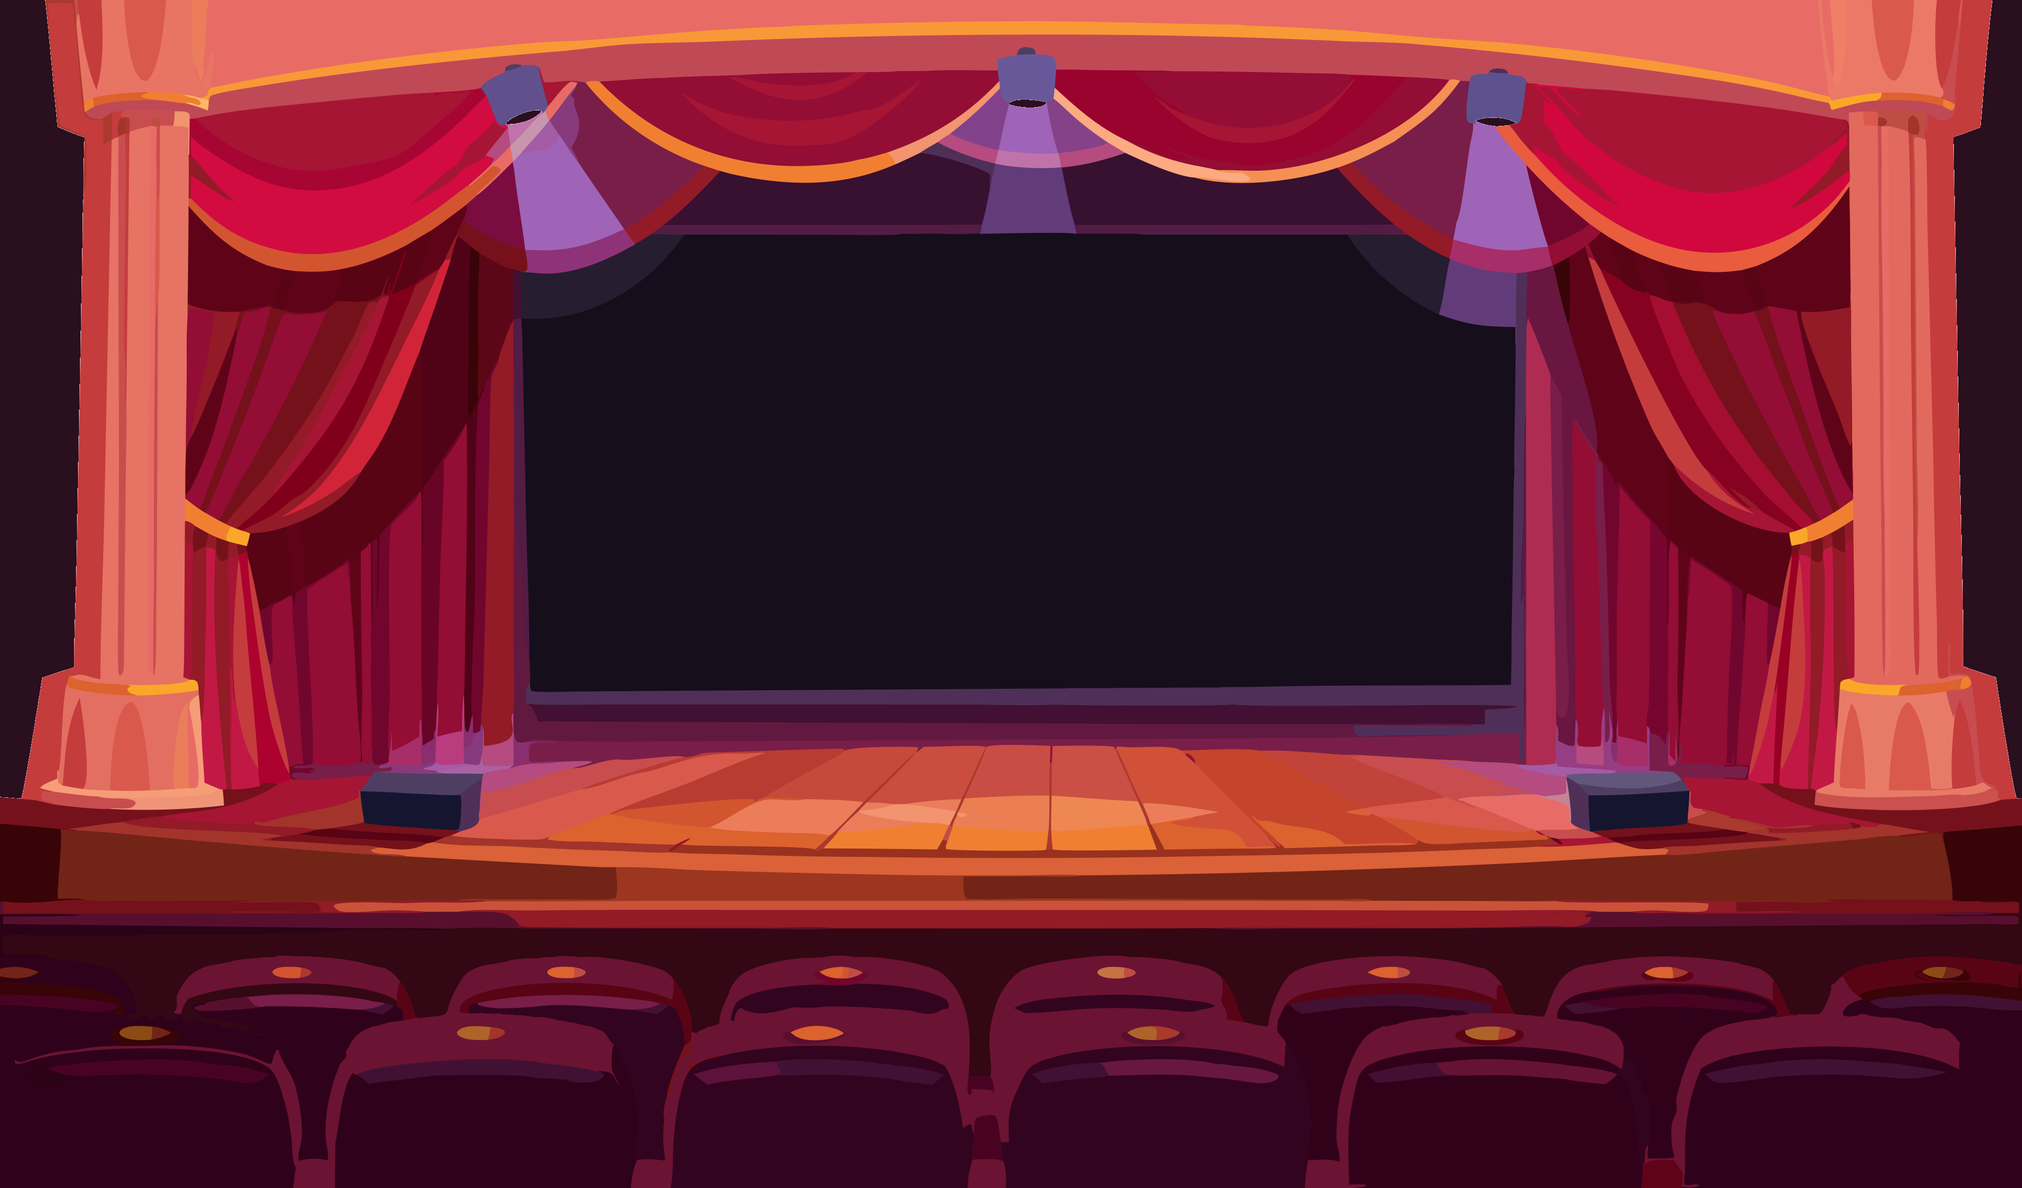
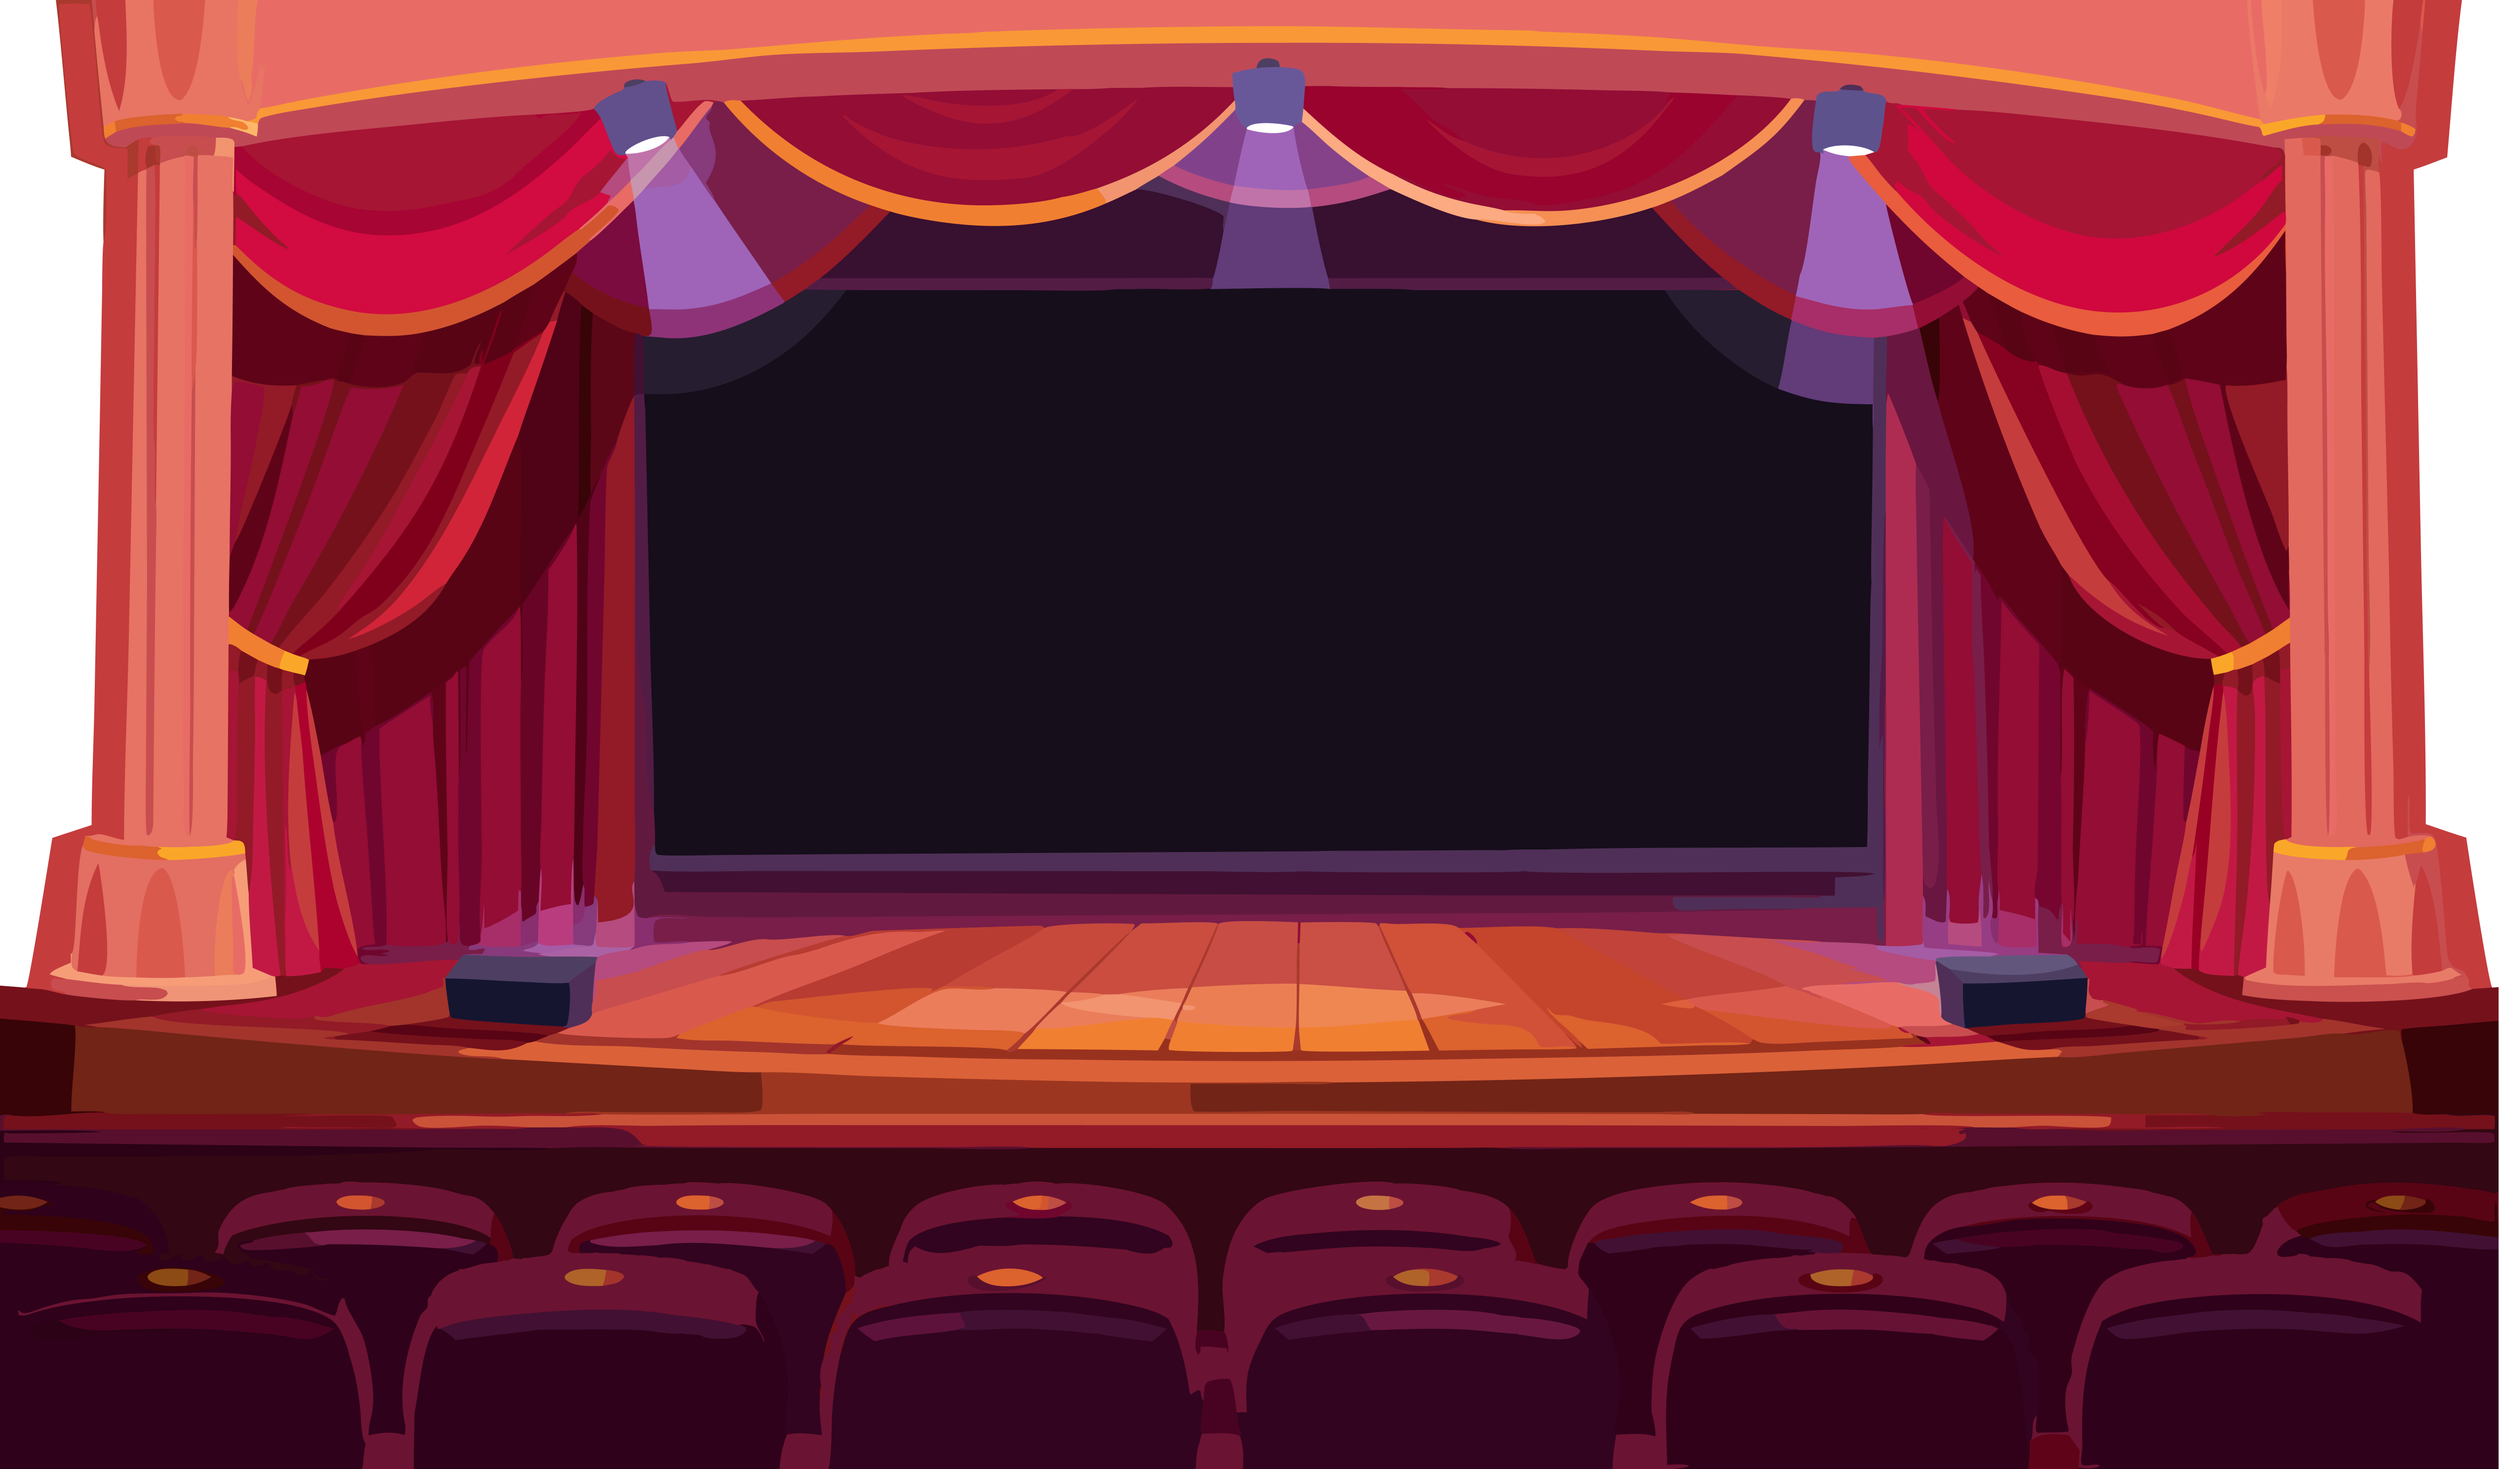
feat(art): new level backgrounds, new home and sign-in backdrop
Four new level backgrounds, plus realhome.png on the home and sign-in
screens (finalbg.png removed, nothing referenced it).

The Cave's art cannot be dropped in as-is: it scrolls with repeat-x, and
the supplied Tunnel Game.png has a 207/255 mismatch between its left and
right edges, so it would show a hard seam every cycle. It is rebuilt the
way the previous tile was, as a mirrored pair at 5600x1400 — edge
mismatch now 0.

That art's ground line also sits higher than the old tile's, so the
background scale moved 120% -> 121% to keep the horizon on 26%, where
the obstacle band starts. Those two numbers are one measurement; the
comment now records that the 121% was derived from a real render rather
than from the tile, because measuring the tile directly was misled by
dark foliage above the horizon.

The Garden's new art landed as scene-garden-play.png rather than over
scene-garden.png, because that file is also the pond's card art on the
choose-a-place grid — overwriting it changed a screen that was not
supposed to change. The card keeps the old picture.

The other three level backgrounds keep their existing filenames so no
URL has to deal with spaces.

diff --git a/Chamki Firefly Forest.dc.html b/Chamki Firefly Forest.dc.html
@@ -363,7 +363,7 @@ a { color: #F6C96B; } a:hover { color: #ffe1a6; }
     <!-- A mirrored pair, so repeat-x has no seam to show. The plain art was
          11k wide and its two edges were nothing like each other, which is the
          join that kept sliding past. -->
-    <div ref="{{ caveBgRef }}" style="position:absolute;inset:0;background-image:url(assets/scene-tunnel-tile.png);background-size:auto 120%;background-repeat:repeat-x;background-position:0 bottom"></div>
+    <div ref="{{ caveBgRef }}" style="position:absolute;inset:0;background-image:url(assets/scene-tunnel-tile.png);background-size:auto 121%;background-repeat:repeat-x;background-position:0 bottom"></div>
 
         <button onClick="{{ leaveGame }}" style="position:absolute;left:2.6vh;top:2.6vh;z-index:9;display:flex;align-items:center;gap:.9vh;height:5.4vh;padding:0 2vh 0 1.4vh;border-radius:1.4vh;border:.4vh solid #fff;background:linear-gradient(180deg,#B9C7D8 0%,#6E8299 100%);box-shadow:inset 0 -.5vh 0 rgba(0,0,0,.16),0 .3vh .6vh rgba(0,0,0,.24);color:#fff;font-family:'Baloo 2',Nunito,sans-serif;font-weight:800;font-size:1.6vh;letter-spacing:.1em;cursor:pointer;transition:transform .16s cubic-bezier(.22,.7,.3,1),box-shadow .16s ease,filter .16s ease" style-hover="filter:brightness(1.05)" style-active="transform:translateY(2px)"><svg width="2.4vh" height="2.4vh" viewBox="0 0 24 24"><path fill="currentColor" d="M11.3 5.3L4.6 12l6.7 6.7 2-2L9.4 13H20v-2H9.4l3.9-3.7z"></path></svg>{{ t.back }}</button>
 
@@ -507,7 +507,7 @@ a { color: #F6C96B; } a:hover { color: #ffe1a6; }
   </sc-if>
 
   <sc-if value="{{ isPond }}" hint-placeholder-val="{{ false }}">
-    <div style="position:absolute;inset:0;background-size:cover;background-position:center;background-image:url(assets/scene-garden.png)"></div>
+    <div style="position:absolute;inset:0;background-size:cover;background-position:center;background-image:url(assets/scene-garden-play.png)"></div>
     <div style="position:absolute;inset:0;background:linear-gradient(180deg,rgba(14,9,22,.34) 0%,rgba(14,9,22,.04) 28%,rgba(14,9,22,0) 62%,rgba(14,9,22,.3) 100%)"></div>
 
     <button onClick="{{ leaveGame }}" style="position:absolute;left:2.6vh;top:2.6vh;z-index:11;display:flex;align-items:center;gap:.9vh;height:5.4vh;padding:0 2vh 0 1.4vh;border-radius:1.4vh;border:.4vh solid #fff;background:linear-gradient(180deg,#B9C7D8 0%,#6E8299 100%);box-shadow:inset 0 -.5vh 0 rgba(0,0,0,.16),0 .3vh .6vh rgba(0,0,0,.24);color:#fff;font-family:'Baloo 2',Nunito,sans-serif;font-weight:800;font-size:1.6vh;letter-spacing:.1em;cursor:pointer;transition:transform .16s cubic-bezier(.22,.7,.3,1),box-shadow .16s ease,filter .16s ease" style-hover="filter:brightness(1.05)" style-active="transform:translateY(2px)"><svg width="2.4vh" height="2.4vh" viewBox="0 0 24 24"><path fill="currentColor" d="M11.3 5.3L4.6 12l6.7 6.7 2-2L9.4 13H20v-2H9.4l3.9-3.7z"></path></svg>{{ t.back }}</button>
@@ -1611,8 +1611,12 @@ class Component extends DCLogic {
   caveBand() {
     const e = this.props.breathEffort;
     const half = 9 * (e === 'Gentle' ? 1.35 : e === 'Strong' ? 0.8 : 1);
-    /* The background is scaled to 120% and pinned to the bottom, which
-       crops most of the sky and drops the ground line to about 25%. The
+    /* The background is scaled to 121% and pinned to the bottom, which
+       drops the ground line to about 26%, where the obstacle band starts.
+       The scale is derived from where the tile's own ground line falls
+       (~39% of its height), measured off a real render rather than
+       guessed. Re-measure it if the tunnel art is ever replaced.
+       The
        flight band has to follow it exactly — these numbers and that
        background-size are one measurement, not two. */
     const bandTop = 26, bandH = 74, pad = 3;

diff --git a/Breezy Login.dc.html b/Breezy Login.dc.html
@@ -31,7 +31,7 @@ button, a { transition: transform .16s cubic-bezier(.22,.7,.3,1), box-shadow .16
 </helmet>
 
 <div style="position:relative;width:100%;height:100vh;overflow:hidden;font-family:Nunito,system-ui,sans-serif;color:#2F3B52;background:#7FD2F5">
-  <div style="position:absolute;inset:0;background-size:cover;background-position:center;background-image:url(assets/finalbg.png)"></div>
+  <div style="position:absolute;inset:0;background-size:cover;background-position:center;background-image:url(assets/realhome.png)"></div>
   <!-- Just enough to lift the card off the art. The first pass was heavy
        enough to make a bright, cheerful picture look overcast. -->
   <div style="position:absolute;inset:0;background:radial-gradient(64% 52% at 50% 46%,rgba(12,40,64,.02) 0%,rgba(12,40,64,.16) 100%)"></div>

diff --git a/Breezy Home.dc.html b/Breezy Home.dc.html
@@ -27,7 +27,7 @@ button, a { transition: transform .16s cubic-bezier(.22,.7,.3,1), box-shadow .16
 </helmet>
 
 <div data-screen-label="Home" style="position:relative;width:100%;height:100vh;overflow:hidden;font-family:'Baloo 2',Nunito,system-ui,sans-serif;color:#2F3B52;background:#8FD3F4">
-  <div style="position:absolute;inset:0;background-size:cover;background-position:center;background-image:url(assets/finalbg.png)"></div>
+  <div style="position:absolute;inset:0;background-size:cover;background-position:center;background-image:url(assets/realhome.png)"></div>
 
   <!-- Everything below is built from the game's own kit: a .4vh white
        border, a hard inset lip along the bottom, and one of its gradients.
